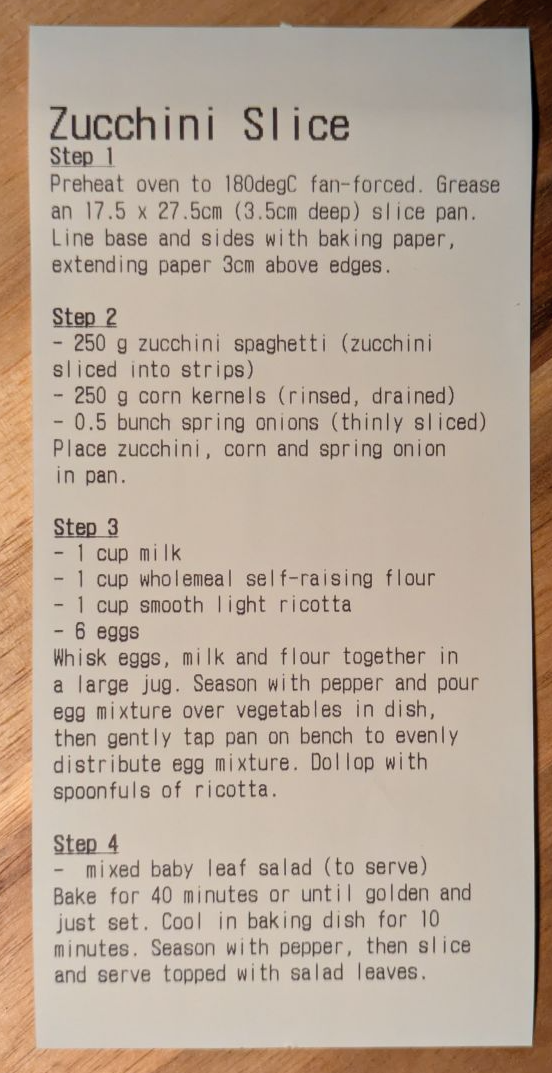
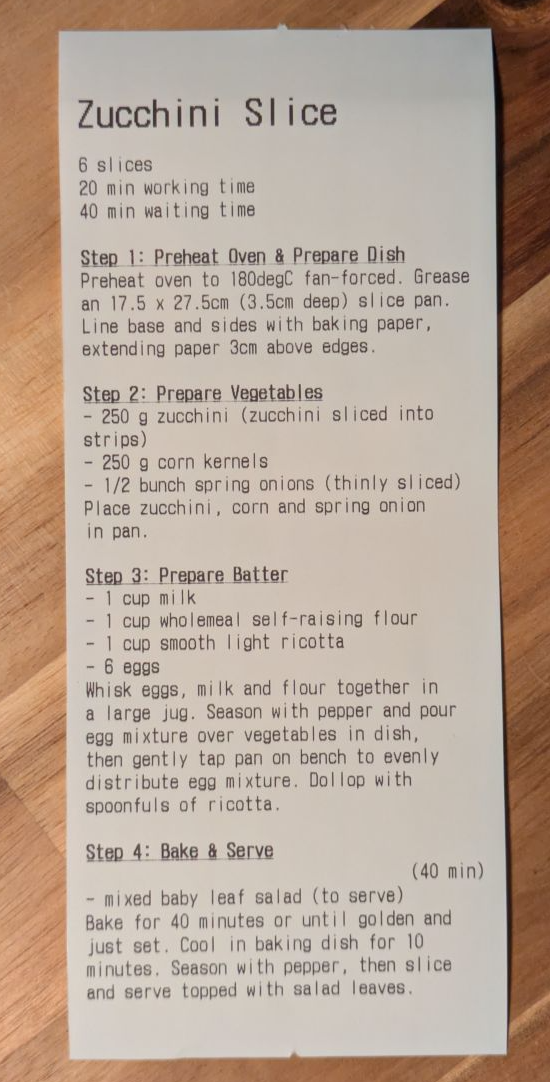
Print recipe info & bump version

diff --git a/src/main.rs b/src/main.rs
@@ -56,6 +56,10 @@ struct Arguments {
     #[arg(short, long, value_enum, default_value_t)]
     ingredient_display: IngredientDisplay,
 
+    /// Add number of servings and cooking time (if relevant) to printout
+    #[arg(short, long)]
+    stats: bool,
+
     /// Print QR code link to recipe
     #[arg(long)]
     qr: bool,
@@ -147,7 +151,14 @@ fn main() -> Result<()> {
                 .size(2, 2)?
                 .writeln(&format_text(&recipe.name, (args.columns/2) as usize))?
                 .reset_size()?
-                .bold(false)?;
+                .bold(false)?
+                .feed()?;
+
+            if args.stats {
+                printer.writeln(&recipe.get_servings())?
+                    .writeln(&recipe.get_duration())?;
+            }
+
 
             if args.verbose >= 2 {
                 println!("{}", format_text(&recipe.name, (args.columns/2) as usize));

diff --git a/src/tandoor_api.rs b/src/tandoor_api.rs
@@ -54,6 +54,24 @@ impl TandoorRecipe {
         ingredients.sort_by_key(|x| x.food.as_ref().unwrap().id);
         ingredients
     }
+
+    pub(crate) fn get_servings(&self) -> String {
+        format!("{} {}", self.servings, if self.servings_text.is_empty() {"servings"} else {&self.servings_text})
+    }
+
+    pub(crate) fn get_duration(&self) -> String {
+        let mut output = String::new();
+
+        if self.working_time > 0 {
+            output.push_str(&format!("{} min working time\n", self.working_time));
+        }
+
+        if self.waiting_time > 0 {
+            output.push_str(&format!("{} min waiting time\n", self.waiting_time));
+        }
+
+        output
+    }
 }
 
 impl TandoorIngredient {

diff --git a/README.md b/README.md
@@ -26,6 +26,7 @@ Additional flags are also available:
 |------------------------------|-----------------------------------|----------------|-------------------------------------------------------------------------------------------------------------------------------------------------------------------------------------------------------------------------------------------------------------|
 | `--printer-path`, `-p`       | Path to printer control file      | `/dev/usb/lp0` | The location on which the printer is made available by the kernel.                                                                                                                                                                                          |
 | `--ingredient-display`, `-i` | `both`, `summary`, `step`, `none` | `step`         | Choose how to display ingredients: As a summary, similar to a traditional recipe (`summary`), at each step (`step`), both or none.                                                                                                                          |
+| `--stats`                    |                                   |                | Print the recipe information at the top (servings, time required)                                                                                                                                                                                           |
 | ``--qr``                     |                                   |                | Add a QR code with the link to the recipe on Tandoor                                                                                                                                                                                                        |
 | `--cut-mode`                 | none, pause, partial, full        | `full`         | When batch printing, select the cut at the end of the recipe. `none` will simply print all recipes without a cut, `pause` will allow the user to tear the recipe off for printers without a cutter, `partial` and `full` use the printer's built-in cutter. |
 | `--columns`                  |                                   | 42             | Enter the width of your printer in characters, or 0 to disable word wrapping.                                                                                                                                                                               |
